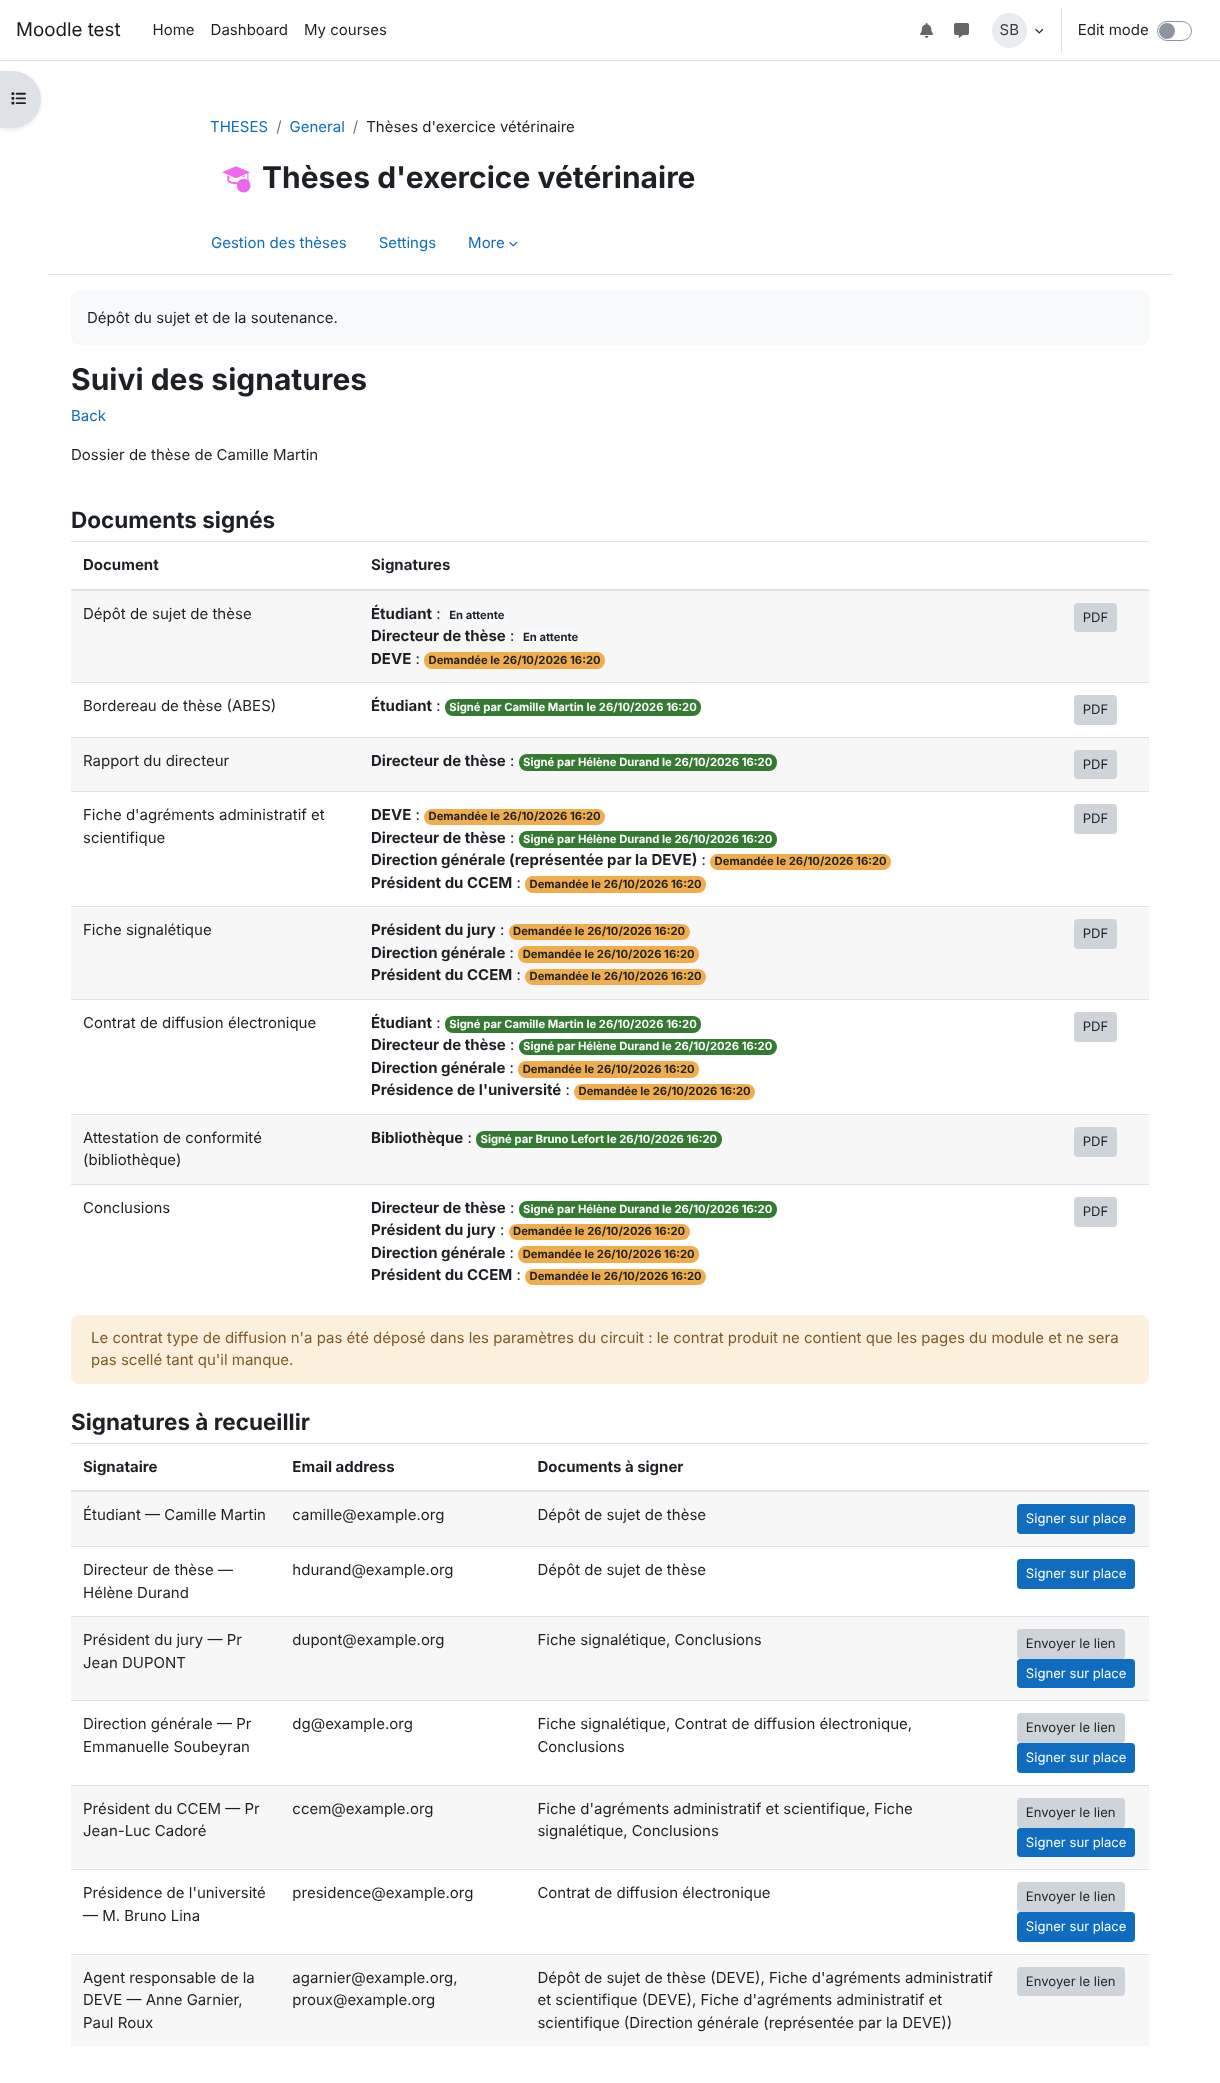
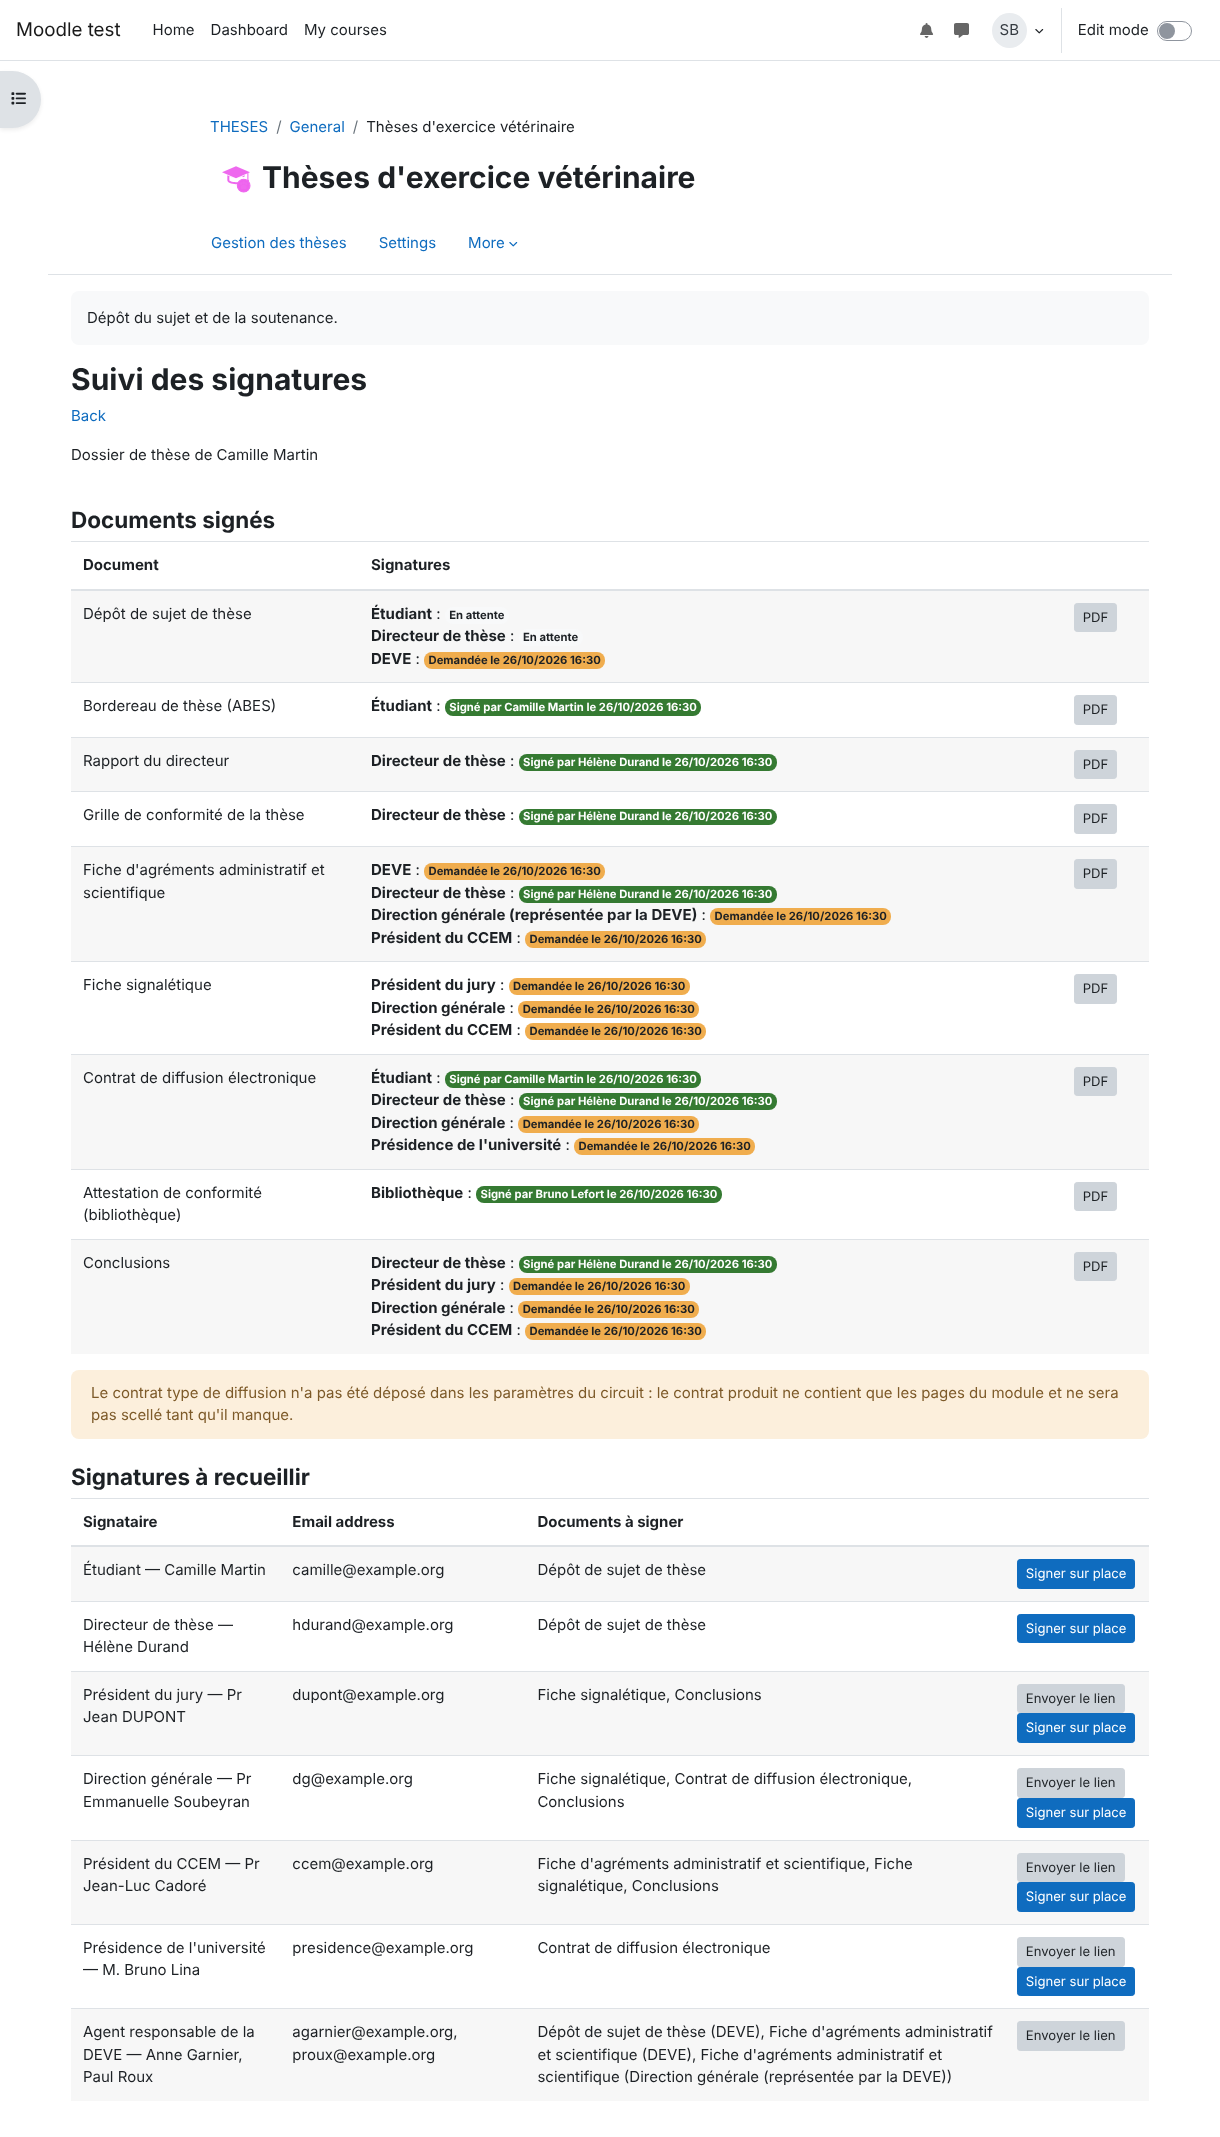
Grille de conformité remplie et attestée par l'étudiant, préremplie pour le directeur
Au dépôt de la soutenance, l'étudiant renseigne le n° d'avis du comité
d'éthique, coche les éléments de la grille (obligatoires sauf « selon la
thèse ») et atteste qu'elle correspond à son manuscrit. Le directeur la
reçoit préremplie, la vérifie, la corrige au besoin et la signe.

Claude-Session: https://claude.ai/code/session_01RmsV41KAocsBj2f5gDBxn6

diff --git a/docs/guides/captures/shots.js b/docs/guides/captures/shots.js
@@ -246,6 +246,15 @@ const steps = {
     await check(p, '#id_signatureconsent');
     await upto(p, '84_changement_sujet', form);
   },
+  async '101_etudiant_grille_conformite'() {
+    const p = await open(await as('lucas'), these('defense.php', { dossierid: ids.lucas }));
+    await only(p, ['Grille de conformité de la thèse']);
+    const grid = p.locator(`${form} input[type=checkbox][name^="grid"]`);
+    for (let i = 0; i < await grid.count(); i++) {
+      await grid.nth(i).check();
+    }
+    await region(p, '101_etudiant_grille_conformite', fieldset('Grille de conformité de la thèse'));
+  },
   async '52_questionnaire_etudiant'() {
     const p = await open(await as('lucas'), these('questionnaire.php', { dossierid: ids.lucas }));
     const select = p.locator(`${form} select`).first();
@@ -331,10 +340,6 @@ const steps = {
   },
   async '70_directeur_valide_soutenance'() {
     const p = await open(await as('hdurand'), these('review.php', { dossierid: ids.chloe }));
-    const grid = p.locator(`${form} input[type=checkbox][name^="grid"]`);
-    for (let i = 0; i < await grid.count(); i++) {
-      await grid.nth(i).check();
-    }
     const title = p.locator('#id_directortitle');
     if (await title.count()) {
       await title.fill('Maître de conférences HDR');

diff --git a/docs/guides/guide-these.tex b/docs/guides/guide-these.tex
@@ -87,6 +87,9 @@ d'une soutenance dans les paramètres du circuit ; pages de validation avec le
 résumé du dossier en tête et le dossier complet replié, bouton de renvoi
 distinct ; \og Mes signatures\fg{} groupé par dossier, sans case cochée
 d'office. \\
+2.9 & 26 octobre 2026 & Grille de conformité remplie et attestée par
+l'étudiant au dépôt de la soutenance, préremplie pour le directeur qui la vérifie
+et la signe. \\
 \bottomrule
 \end{tabularx}
 \end{center}
@@ -470,6 +473,12 @@ refusé.}
         soutenance} et indiquez-en le motif (brevet, publication en cours,
         données sensibles\ldots) : la date de fin, cinq ans après la date de
         soutenance, est reportée au contrat, que votre directeur vise.
+  \item Remplissez la \textbf{grille de conformité} : numéro d'avis du comité
+        d'éthique s'il existe, puis cochez chaque élément respecté par le
+        manuscrit (les éléments \og selon la thèse\fg{} peuvent rester non
+        cochés). Cochez enfin \og J'atteste que mon manuscrit respecte les points
+        cochés de la grille de conformité\fg{}. Votre directeur la reçoit
+        préremplie, la vérifie et la signe.
   \item Vérifiez que le questionnaire est rempli, signez, puis cliquez sur
         \bouton{Soumettre au directeur de thèse}.
 \end{etapes}
@@ -479,14 +488,17 @@ directeur rédige son rapport puis valide.}
 
 \capture[0.85\linewidth]{67_etudiant_soutenance_signature}{Dépôt de la soutenance : documents, jury, bordereau, signature.}
 
+\capture[0.85\linewidth]{101_etudiant_grille_conformite}{Grille de conformité remplie par l'étudiant au dépôt, avec son attestation.}
+
 \capture[0.85\linewidth]{91_embargo_depot}{Demande d'embargo de diffusion de 5 ans, avec son motif, au dépôt de la soutenance.}
 
 \capture[0.85\linewidth]{92_dossier_diffusion}{Rubrique \og Diffusion\fg{} du dossier : embargo demandé et date de fin.}
 
 \begin{attention}
 Des conclusions trop longues pour tenir sur une page avec les signatures sont
-refusées au dépôt. Le rapport de votre directeur et la grille de conformité ne
-vous sont pas communiqués. Toute modification d'un document déjà signé annule
+refusées au dépôt. Le rapport de votre directeur ne vous est pas communiqué ;
+la grille de conformité que vous avez remplie peut être corrigée par votre
+directeur avant sa signature. Toute modification d'un document déjà signé annule
 les signatures concernées.
 \end{attention}
 
@@ -587,8 +599,9 @@ favorable\fg{}.}
   \item Cliquez sur \bouton{Valider la soutenance et déposer le rapport}.
   \item Vérifiez la ligne \og Rapport du directeur\fg{} : un rapport rédigé
         avec avis favorable est exigé.
-  \item Renseignez le numéro d'avis du comité d'éthique s'il existe, et cochez
-        les éléments de la \textbf{grille de conformité}.
+  \item Vérifiez la \textbf{grille de conformité}, préremplie par
+        l'étudiant à son dépôt (numéro d'avis du comité d'éthique et éléments
+        cochés) ; corrigez-la au besoin.
   \item Indiquez votre fonction (agrément scientifique).
   \item Signez une fois : la signature vaut pour le rapport, la grille, les
         conclusions, l'agrément scientifique et le contrat de diffusion.
@@ -1008,7 +1021,7 @@ Dépôt de sujet (E01) & Étudiant & Étudiant (soumission), directeur (validati
 DEVE (visa), directeur extérieur éventuel (lien) \\
 Bordereau de thèse (ABES) & Étudiant & Étudiant (dépôt de soutenance) \\
 Rapport du directeur & Directeur & Directeur \\
-Grille de conformité & Directeur & Directeur \\
+Grille de conformité & Étudiant, vérifiée par le directeur & Directeur \\
 Fiche d'agréments (E02) & DEVE (administratif), directeur (scientifique) &
 DEVE, directeur (ou membre si directeur extérieur), direction générale
 représentée par la DEVE, CCEM \\
@@ -1115,13 +1128,14 @@ signature.
 
 \subsection{Grille de conformité}\label{sec:grille}
 
-Les éléments de la grille de conformité remplie par le directeur se modifient
+Les éléments de la grille de conformité, remplie par l'étudiant à son dépôt de
+soutenance puis vérifiée et signée par le directeur, se modifient
 dans chaque activité : \bouton{Grille de conformité} de la barre de navigation
 (DEVE). Pour chaque élément : rubrique (fond ou forme), libellé, et \og Selon la
 thèse\fg{} s'il peut rester non coché. Vider un libellé supprime l'élément ; les
 lignes vides en bas de liste en ajoutent ; \bouton{Rétablir la grille d'origine}
 revient à la grille de 08-2024. La grille en PDF est produite à partir du
-formulaire rempli par le directeur et des éléments en vigueur : une
+formulaire validé par le directeur et des éléments en vigueur : une
 modification met à jour les grilles (les documents de soutenance déjà générés
 le sont à leur prochaine génération).
 

diff --git a/mod/these/classes/form/defense_form.php b/mod/these/classes/form/defense_form.php
@@ -126,6 +126,27 @@ class defense_form extends \moodleform {
         }
         $mform->addHelpButton('bkeywordgroup', 'bkeywords', 'mod_these');
 
+        // Grille de conformité : remplie et attestée par l'étudiant, puis vérifiée et signée par le
+        // directeur à la validation (formulaire prérempli).
+        $mform->addElement('header', 'gridheader', get_string('docgrid', 'mod_these'));
+        $mform->addElement('static', 'gridhelp', '', get_string('gridstudenthelp', 'mod_these'));
+        $mform->addElement('text', 'ethicsnumber', get_string('ethicsnumber', 'mod_these'), ['size' => 20]);
+        $mform->setType('ethicsnumber', PARAM_TEXT);
+        foreach (these_get_grid_items(these_settings_scope($this->_customdata['these'])) as $section => $items) {
+            $mform->addElement(
+                'static',
+                'gridsection' . $section,
+                '',
+                \html_writer::tag('strong', get_string('gridsection' . $section, 'mod_these'))
+            );
+            foreach ($items as $key => $item) {
+                $label = format_string($item->label) . ($item->conditional
+                    ? ' ' . \html_writer::span(get_string('gridconditional', 'mod_these'), 'text-muted') : '');
+                $mform->addElement('advcheckbox', 'grid_' . $key, '', $label);
+            }
+        }
+        $mform->addElement('advcheckbox', 'gridconfirm', '', get_string('gridstudentconfirm', 'mod_these'));
+
         // Conclusions, signées ensuite par le directeur, le président du jury et les autorités.
         $mform->addElement('header', 'conclusionsheader', get_string('docconclusions', 'mod_these'));
         $mform->addElement('textarea', 'conclusions', get_string('conclusionstext', 'mod_these'), [
@@ -201,6 +222,17 @@ class defense_form extends \moodleform {
         }
         if (trim((string) $data['defenselocation']) === '') {
             $errors['defenselocation'] = get_string('required');
+        }
+        // Grille de conformité : éléments obligatoires cochés et attestation de l'étudiant.
+        foreach (these_get_grid_items(these_settings_scope($this->_customdata['these'])) as $items) {
+            foreach ($items as $key => $item) {
+                if (!$item->conditional && empty($data['grid_' . $key])) {
+                    $errors['grid_' . $key] = get_string('gridrequired', 'mod_these');
+                }
+            }
+        }
+        if (empty($data['gridconfirm'])) {
+            $errors['gridconfirm'] = get_string('gridstudentconfirmrequired', 'mod_these');
         }
         $juryerror = these_validate_jury(these_extract_submitted_jury($data), $this->_customdata['minjury']);
         if ($juryerror !== null) {

diff --git a/mod/these/tests/workflow_test.php b/mod/these/tests/workflow_test.php
@@ -353,4 +353,37 @@ final class workflow_test extends these_testcase {
         $dossier = $this->reload($dossier->id);
         $this->assertEquals(THESE_STATUS_DEFENSE_SUBMITTED, $dossier->status);
     }
+
+    /**
+     * Grille de conformité : remplie et attestée par l'étudiant au dépôt de la soutenance, elle est
+     * enregistrée au dossier et préremplit ensuite la validation du directeur.
+     */
+    public function test_student_fills_conformity_grid(): void {
+        $this->setup_activity();
+        $dossier = $this->generator->create_dossier($this->these, $this->student->id, [
+            'status' => THESE_STATUS_ACTIVE, 'directorid' => $this->director->id,
+        ]);
+        $data = $this->defense_data();
+        $data->ethicsnumber = '2526';
+        $keys = [];
+        foreach (these_get_grid_items(these_settings_scope($this->these)) as $items) {
+            foreach (array_keys($items) as $key) {
+                $keys[] = $key;
+                $data->{'grid_' . $key} = 1;
+            }
+        }
+        $data->{'grid_' . $keys[0]} = 0;
+        these_save_defense($this->these, $this->cm, $dossier, $data, false, $this->student->id);
+
+        $dossier = $this->reload($dossier->id);
+        $this->assertSame('2526', $dossier->ethicsnumber);
+        $grid = these_get_grid($dossier);
+        $this->assertSame(count($keys), count($grid));
+        $this->assertSame(0, $grid[$keys[0]]);
+        $this->assertSame(1, $grid[$keys[1]]);
+
+        // Un enregistrement sans grille (formulaire d'une autre étape) ne l'efface pas.
+        these_save_defense($this->these, $this->cm, $dossier, $this->defense_data(), false, $this->student->id);
+        $this->assertSame($grid, these_get_grid($this->reload($dossier->id)));
+    }
 }

diff --git a/mod/these/classes/local/dossiers.php b/mod/these/classes/local/dossiers.php
@@ -491,6 +491,17 @@ class dossiers {
                 'conclusions' => (string) these_submitted_value($data, $dossier, 'conclusions'),
                 'bordereau' => json_encode(these_extract_bordereau($data, these_get_bordereau($dossier)), JSON_UNESCAPED_UNICODE),
             ];
+            // Grille de conformité remplie par l'étudiant ; le directeur la vérifie et la signe ensuite.
+            if (property_exists($data, 'ethicsnumber')) {
+                $grid = [];
+                foreach (these_get_grid_items(these_settings_scope($these)) as $items) {
+                    foreach (array_keys($items) as $item) {
+                        $grid[$item] = (int) !empty($data->{'grid_' . $item});
+                    }
+                }
+                $fields['conformitygrid'] = json_encode($grid);
+                $fields['ethicsnumber'] = trim((string) $data->ethicsnumber);
+            }
             // Tant que la DEVE n'a pas arrêté la date, la date retenue suit la proposition de l'étudiant.
             if ((int) $dossier->status === THESE_STATUS_ACTIVE || empty($dossier->defensedate)) {
                 $fields['defensedate'] = (int) $data->proposeddate;

diff --git a/mod/these/lang/fr/these.php b/mod/these/lang/fr/these.php
@@ -818,6 +818,12 @@ $string['griditemadd'] = 'Ajouter {no} élément(s)';
 $string['griditemssaved'] = 'La grille de conformité est enregistrée.';
 $string['griditemsreset'] = "Rétablir la grille d'origine";
 $string['gridrequired'] = 'Élément à valider.';
+$string['gridstudenthelp'] = "Cochez chaque point que respecte votre manuscrit. Votre directeur vérifiera cette grille, la "
+    . "complétera au besoin et la signera en validant votre soutenance.";
+$string['gridstudentconfirm'] = "J'atteste que mon manuscrit respecte les points cochés de la grille de conformité";
+$string['gridstudentconfirmrequired'] = "Attestez la grille de conformité avant de soumettre le dossier.";
+$string['gridprefilledbystudent'] = "Grille préremplie et attestée par l'étudiant à son dépôt : vérifiez chaque point avant "
+    . "de signer.";
 $string['gridquestion'] = 'La question scientifique est clairement posée et identifiée.';
 $string['gridanswer'] = 'La réponse bibliographique ou expérimentale est satisfaisante.';
 $string['gridbiblio'] = 'La bibliographie est complète, pertinente et actuelle.';

diff --git a/mod/these/lang/en/these.php b/mod/these/lang/en/these.php
@@ -810,6 +810,12 @@ $string['griditemconditional'] = 'Depending on the thesis (optional)';
 $string['griditemadd'] = 'Add {no} item(s)';
 $string['griditemssaved'] = 'The conformity grid has been saved.';
 $string['griditemsreset'] = 'Restore the original grid';
+$string['gridstudenthelp'] = 'Tick each point your manuscript complies with. Your supervisor will check this list, complete '
+    . 'it if needed and sign it when validating your defence.';
+$string['gridstudentconfirm'] = 'I certify that my manuscript complies with the ticked points of the compliance checklist';
+$string['gridstudentconfirmrequired'] = 'Certify the compliance checklist before submitting the file.';
+$string['gridprefilledbystudent'] = 'Checklist prefilled and certified by the student when submitting: check each point before '
+    . 'signing.';
 $string['gridrequired'] = 'Item to validate.';
 $string['gridquestion'] = 'The scientific question is clearly stated and identified.';
 $string['gridanswer'] = 'The bibliographic or experimental answer is satisfactory.';

diff --git a/docs/guides/captures/seed.php b/docs/guides/captures/seed.php
@@ -239,7 +239,14 @@ $advance = function (stdClass $student, array $spec, int $target) use (
                 'bsummaryfr' => $spec['summary'], 'bsummaryen' => 'Summary of the study.',
                 'bdiffusion' => 1, 'bembargo' => !empty($spec['embargo']) ? 1 : 0,
                 'bembargoreason' => $spec['embargo'] ?? '',
+                'ethicsnumber' => '',
             ]);
+            // Grille de conformité remplie par l'étudiant : tous les éléments cochés.
+            foreach (these_get_grid_items(these_settings_scope($these)) as $items) {
+                foreach (array_keys($items) as $item) {
+                    $data->{'grid_' . $item} = 1;
+                }
+            }
             these_save_defense($these, $cm, $d, $data, true, $student->id, $sig($student));
         },
         THESE_STATUS_DEFENSE_APPROVED => function ($d) use ($these, $cm, $director, $sig, $reload) {

diff --git a/mod/these/classes/form/review_form.php b/mod/these/classes/form/review_form.php
@@ -75,6 +75,12 @@ class review_form extends \moodleform {
                 // Grille de conformité du manuscrit.
                 $mform->addElement('header', 'gridheader', get_string('docgrid', 'mod_these'));
                 $mform->setExpanded('gridheader');
+                if (!empty($this->_customdata['gridprefilled'])) {
+                    $mform->addElement('static', 'gridprefilled', '', \html_writer::span(
+                        get_string('gridprefilledbystudent', 'mod_these'),
+                        'alert alert-info d-block'
+                    ));
+                }
                 $mform->addElement('text', 'ethicsnumber', get_string('ethicsnumber', 'mod_these'), ['size' => 20]);
                 $mform->setType('ethicsnumber', PARAM_TEXT);
                 // Éléments de la grille de l'activité (modifiables par la DEVE) : la grille signée

diff --git a/mod/these/defense.php b/mod/these/defense.php
@@ -77,6 +77,10 @@ foreach (['manuscript', 'defensedocs'] as $filearea) {
 $formdata->proposeddate = $dossier->proposeddate ?: null;
 $formdata->titleen = $dossier->titleen;
 $formdata->conclusions = $dossier->conclusions;
+$formdata->ethicsnumber = $dossier->ethicsnumber;
+foreach (these_get_grid($dossier) as $item => $checked) {
+    $formdata->{'grid_' . $item} = $checked;
+}
 // Données de l'étudiant : celles déjà enregistrées, à défaut son profil et sa fiche de sujet.
 $bordereau = these_get_bordereau($dossier) + [
     'birthname' => core_text::strtoupper($USER->lastname),

diff --git a/mod/these/review.php b/mod/these/review.php
@@ -85,6 +85,7 @@ $mform = new review_form($PAGE->url, [
     'returnto' => $step['returnto'],
     'theseid' => $these->id,
     'scope' => these_settings_scope($these),
+    'gridprefilled' => !empty(these_get_grid($dossier)),
     'minjury' => $these->minjury,
     'jurycount' => count($jury),
     'jurorids' => array_map('intval', array_column($jury, 'jurorid')),

diff --git a/mod/these/version.php b/mod/these/version.php
@@ -25,7 +25,7 @@
 defined('MOODLE_INTERNAL') || die();
 
 $plugin->component = 'mod_these';
-$plugin->version   = 2026102605;
+$plugin->version   = 2026102606;
 $plugin->requires  = 2022041900; // Moodle 4.0+.
 $plugin->maturity  = MATURITY_ALPHA;
 $plugin->release   = '0.17.0';
